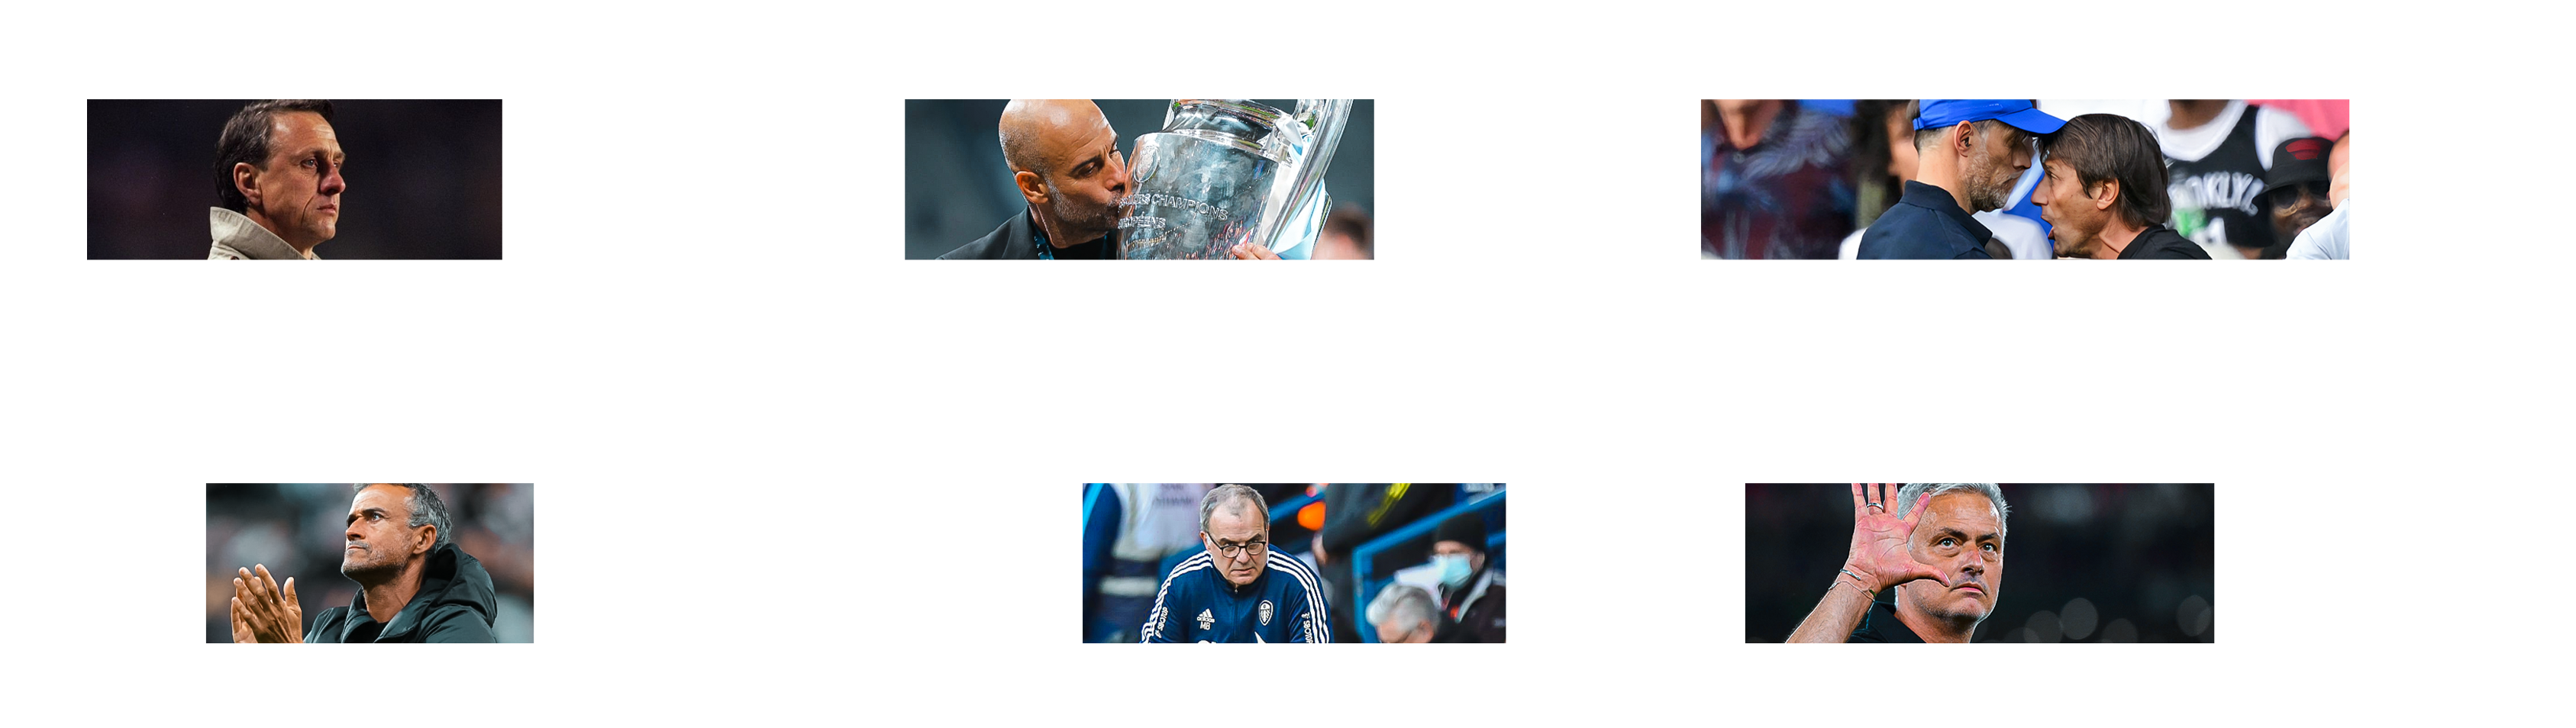
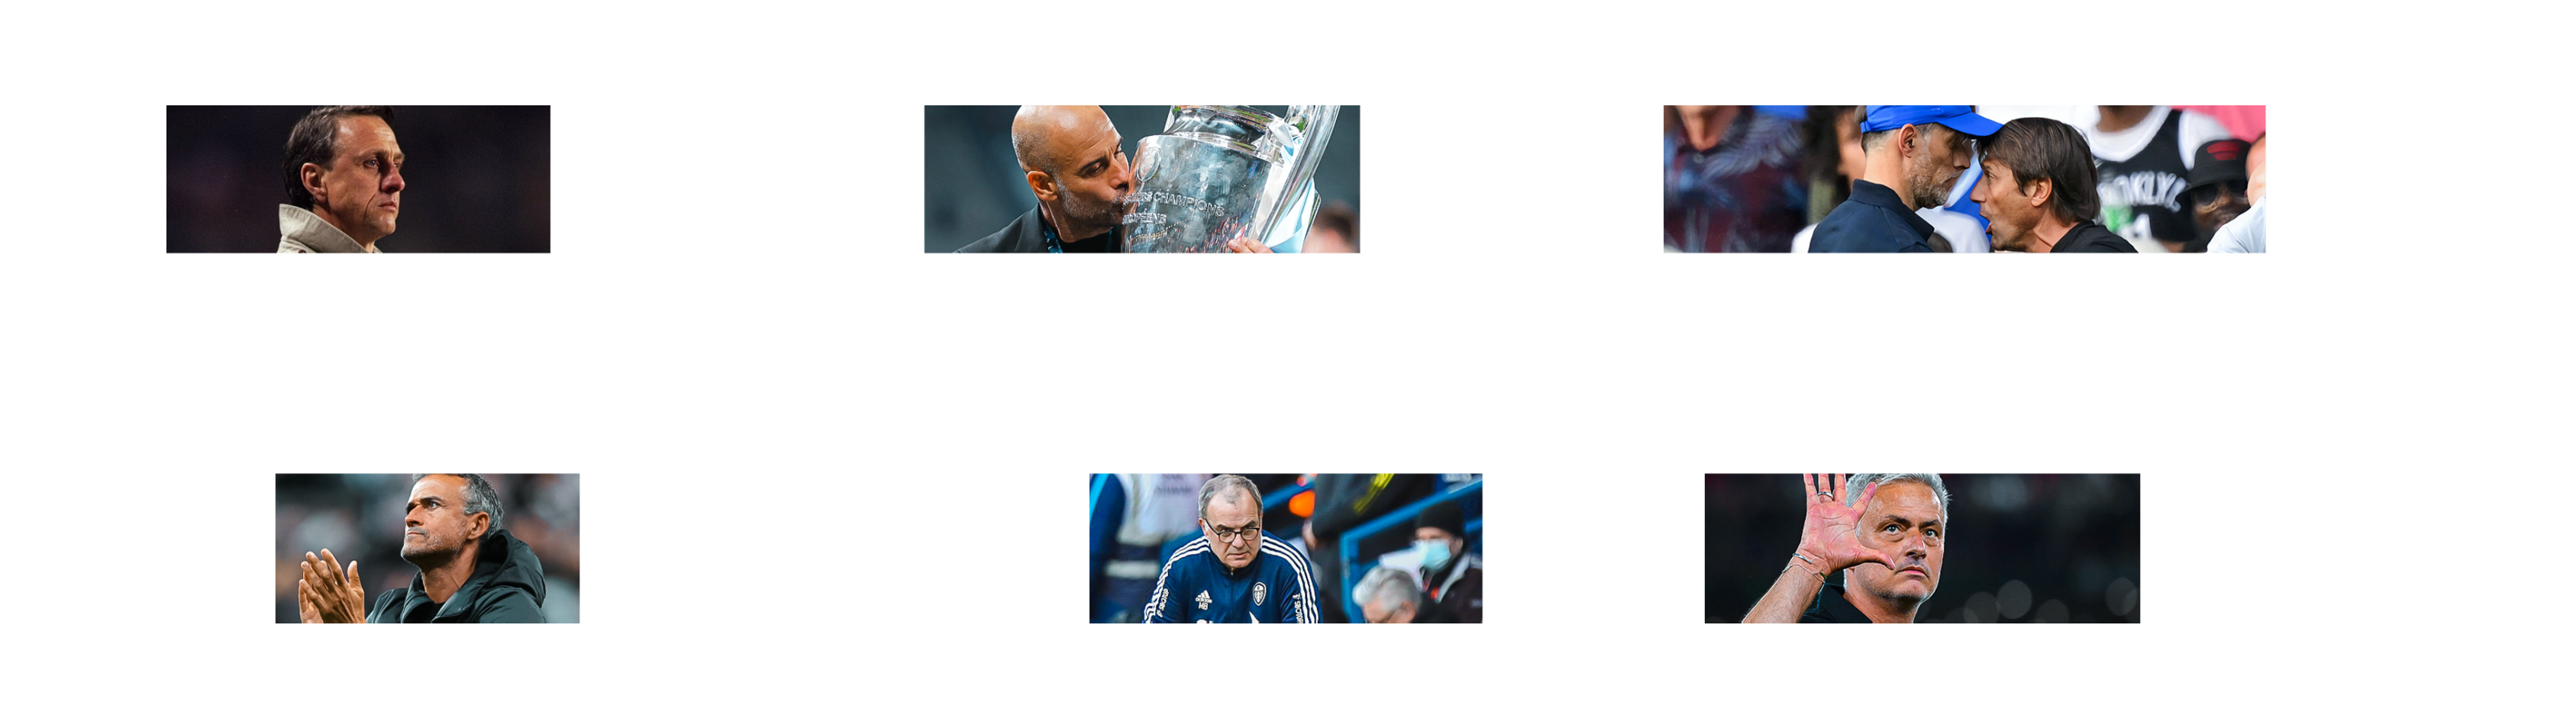
fix(): Final fixes to horizontal scrolling fix(): Added differnet size bg for mobile hero

diff --git a/src/components/TacticDashboard.css b/src/components/TacticDashboard.css
@@ -43,19 +43,19 @@
 
 
 .featured-tactic-section .arm{
-    width: 22vw;
-    height: 6vh;
+    width: 21vw;
+    height: 7vh;
     background-color: black;
-    transform: perspective(100px) rotateX(8deg) scaleX(1.1);
+    transform: perspective(60px) rotateX(8deg) scaleX(1.1);
     transform-origin: top bottom;
-    border-radius: 200px 200px 20px 20px;
+    border-radius: 400px 400px 40px 40px;
 }
 
 .featured-tactic-section h1{
-    margin-top: -4.5vh;
+    margin-top: -4vh;
     margin-bottom: 7vh;
     font-size: 9rem;
-    transform: perspective(100px) rotateX(8deg) scaleX(1.1);
+    transform: perspective(70px) rotateX(8deg) scaleX(1.1);
     transform-origin: top bottom;
     cursor: alias;
     transition: all 0.3s ease;

diff --git a/src/components/Hero.css b/src/components/Hero.css
@@ -19,7 +19,7 @@
 }
 
 .hero-overlay h1 {
-    font-size: 12.5vw;
+    font-size: 12vw;
     font-weight: 900;
     letter-spacing: -1px;
     transform: scaleX(1.3);
@@ -55,15 +55,17 @@
     }
  
     .hero-banner {
+        background-image: url(../assets/Images/Intro-mobile.png);
         position: sticky;
         background-position: left center;
         top: 0;
-        width: 800vw;
+        width: 720vw;
         height: 100vh;
     }
  
     .hero-overlay h1 {
-        font-size: 40vw;
+        font-size: 37vw;
+        padding-left: 100px;
         letter-spacing: 0;
     }
 }

diff --git a/src/components/Header.css b/src/components/Header.css
@@ -7,7 +7,8 @@
     display: flex;
     justify-content: space-between;
     align-items: center;
-    padding: 1rem;
+    padding: 1.1rem;
+    padding-bottom: 0;
     color: white;
 }
 
@@ -40,8 +41,8 @@
 
     .site-header h1,
     .site-header a {
-        margin: 0 0.75rem;
-        font-size: clamp(1.3rem, 3.5vw, 1rem);
+        margin: 0 0.8rem;
+        font-size: clamp(1.45rem, 3.5vw, 1rem);
     }
 }
 

diff --git a/src/components/Hero.jsx b/src/components/Hero.jsx
@@ -18,7 +18,7 @@ function Hero() {
             const overflow = hero.current.scrollWidth - window.innerWidth;
 
             // Start the banner left aligned
-            gsap.set(hero.current, { x: 0 });
+            gsap.set(hero.current, { x: -200 });
 
             gsap.to(hero.current, {
                 x: -overflow,
@@ -41,7 +41,7 @@ function Hero() {
                 ease: "none",
                 scrollTrigger: {
                     trigger: hero.current,
-                    scrub: 1,
+                    scrub: 2,
                     pin: true,
                     invalidateOnRefresh: true,
                 },

diff --git a/src/components/Installation.css b/src/components/Installation.css
@@ -111,7 +111,7 @@
 }
 
 .folder-open__paper h1{
-    font-size: 7.5rem;
+    font-size: 9.5rem;
     margin: 0;
 }
 
@@ -120,7 +120,7 @@
 }
 
 .folder-open__paper li{
-    font-size: 1.8rem;
+    font-size: 2.4rem;
     margin: 2.6vh 0;
 }
 

diff --git a/src/components/TacticDashboard.jsx b/src/components/TacticDashboard.jsx
@@ -12,13 +12,14 @@ const folders = [
 ];
 
 function TacticDashboard() {
+    const isMobile = window.matchMedia('(max-width: 580px)').matches;
     const [activeCardId, setActiveCardId] = useState(null);
     const [isVisible, setIsVisible] = useState(false);
     const [element,setElement]=useState();
     const recent=tacticsData[0].arr[0];
     const topRated=tacticsData[1].arr[3];
     const standOut=tacticsData[0].arr[2];
-    const [selected,setSelected]=useState(recent);
+    const [selected,setSelected]=useState(isMobile ? topRated : recent);
     const [light,setLight]=useState(false)
     const carouselRef = useRef();
     const isDragging = useRef(false);